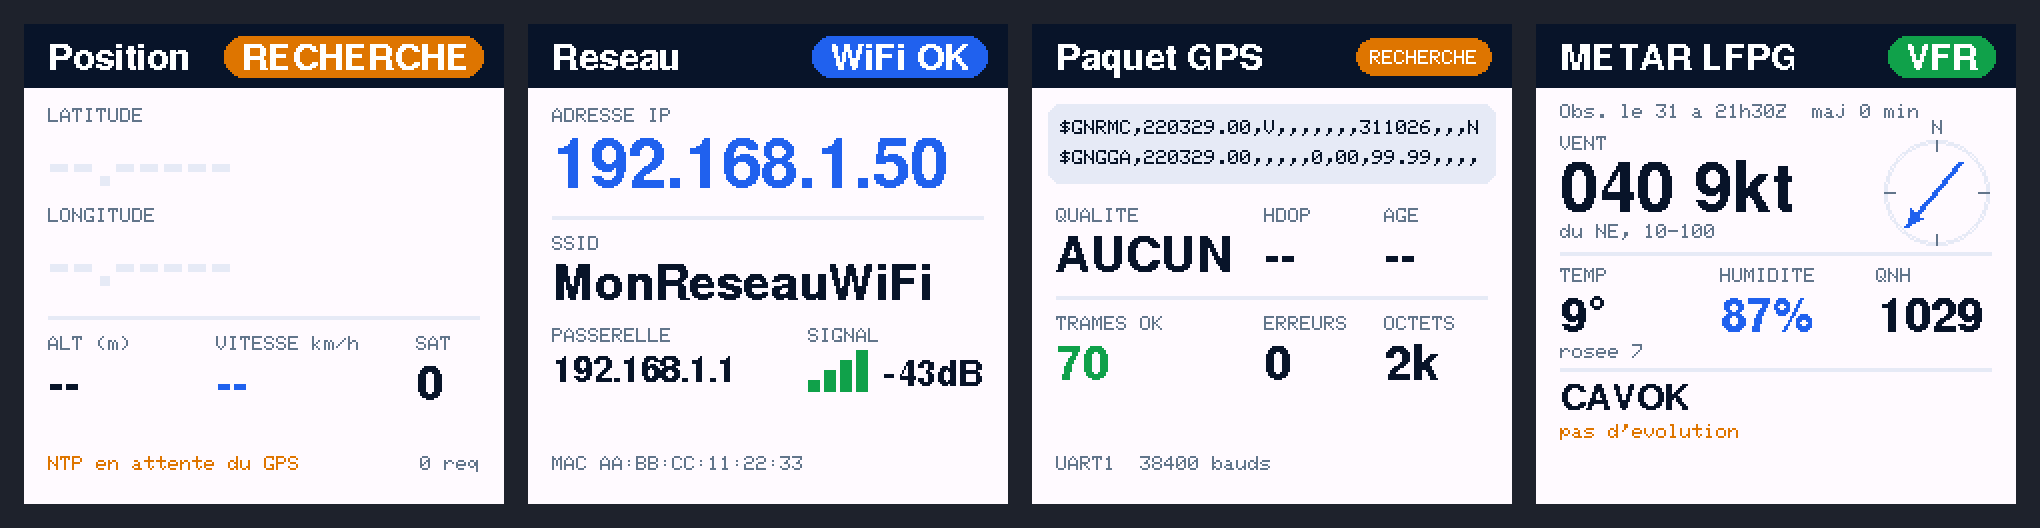
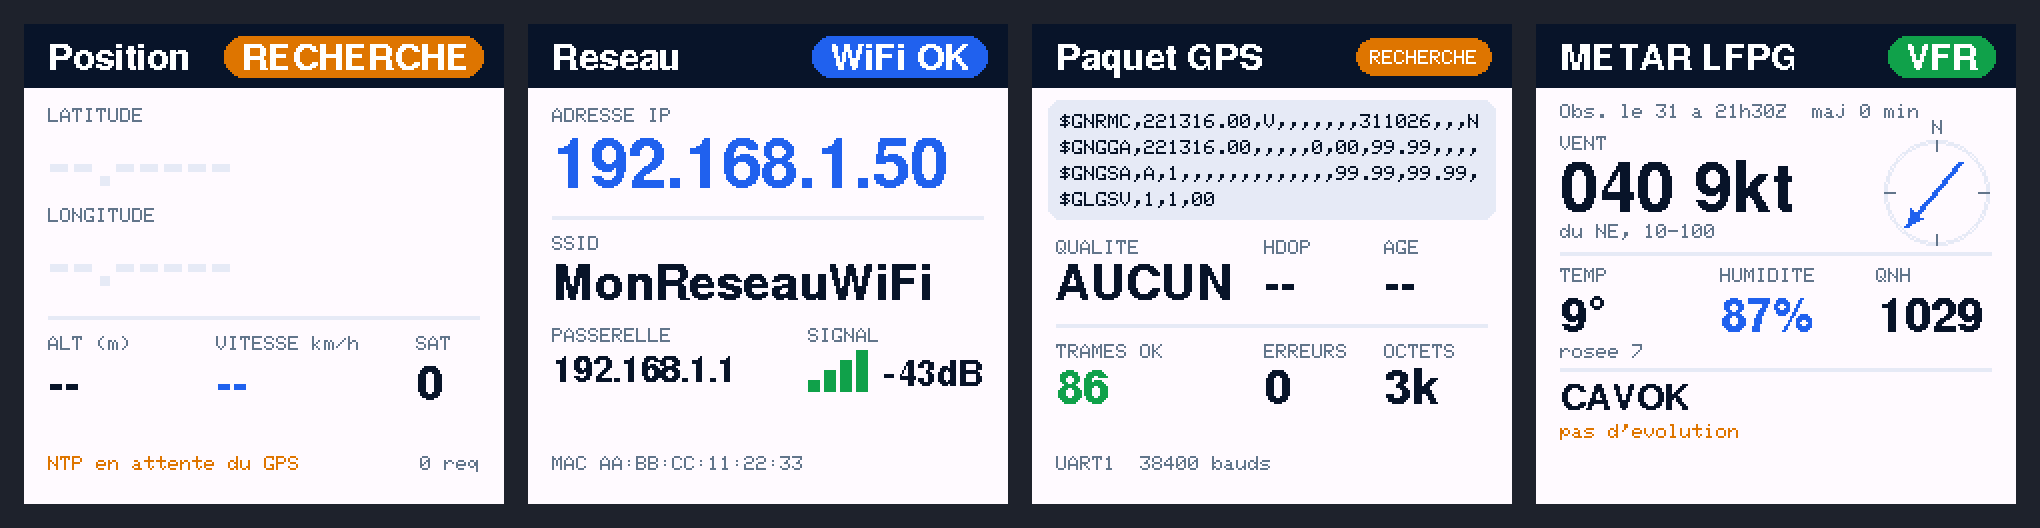
TFT page Paquet GPS : 4 trames (RMC, GGA, GSA, GSV), blocs redescendus

Changed region(s): [[0.4941, 0.1818, 0.7412, 0.7879], [0.6794, 0.4545, 0.7103, 0.5152]]

diff --git a/src/main.cpp b/src/main.cpp
@@ -119,6 +119,8 @@ char nmeaLine[100];
 size_t nmeaLen = 0;
 char lastRmc[100] = "";
 char lastGga[100] = "";
+char lastGsa[100] = "";
+char lastGsv[100] = "";
 
 WebServer server(80);
 
@@ -293,6 +295,8 @@ void captureNmea(char c) {
       if (star) *star = '\0';
       if (strncmp(nmeaLine + 3, "RMC", 3) == 0) strlcpy(lastRmc, nmeaLine, sizeof(lastRmc));
       else if (strncmp(nmeaLine + 3, "GGA", 3) == 0) strlcpy(lastGga, nmeaLine, sizeof(lastGga));
+      else if (strncmp(nmeaLine + 3, "GSA", 3) == 0) strlcpy(lastGsa, nmeaLine, sizeof(lastGsa));
+      else if (strncmp(nmeaLine + 3, "GSV", 3) == 0) strlcpy(lastGsv, nmeaLine, sizeof(lastGsv));
     }
     nmeaLen = 0;
     return;
@@ -618,15 +622,22 @@ void drawPageGpsPacket(ShiftCanvas& g, uint32_t now) {
   uint16_t c = gpsError ? D_RED : (locValid ? D_GREEN : D_AMBER);
   drawHeader(g, "Paquet GPS", gpsError ? "AUCUNE DONNEE" : (locValid ? "FIX" : "RECHERCHE"), c);
 
-  g.fillRoundRect(8, 40, 224, 40, 6, D_DIV);
+  // 4 dernières trames (35 caractères max par ligne : la boîte fait 224 px en police 6x8)
+  g.fillRoundRect(8, 38, 224, 60, 6, D_DIV);
   g.setFont(nullptr);
   g.setTextColor(D_TEXT);
-  g.setCursor(14, 48);
-  // Les trames brutes contiennent la position : remplacées par un exemple en capture anonymisée
+  // RMC et GGA contiennent la position : remplacées par un exemple en capture anonymisée
   bool anonRaw = screenAnon && locValid;
-  g.print(String(anonRaw ? "$GNRMC,123519.00,A,4851.502,N,00217" : (lastRmc[0] ? lastRmc : "$--RMC (rien)")).substring(0, 35));
-  g.setCursor(14, 63);
-  g.print(String(anonRaw ? "$GNGGA,123519.00,4851.502,N,00217.6" : (lastGga[0] ? lastGga : "$--GGA (rien)")).substring(0, 35));
+  const char* lines[4] = {
+    anonRaw ? "$GNRMC,123519.00,A,4851.502,N,00217" : (lastRmc[0] ? lastRmc : "$--RMC (rien)"),
+    anonRaw ? "$GNGGA,123519.00,4851.502,N,00217.6" : (lastGga[0] ? lastGga : "$--GGA (rien)"),
+    lastGsa[0] ? lastGsa : "$--GSA (rien)",
+    lastGsv[0] ? lastGsv : "$--GSV (rien)",
+  };
+  for (int i = 0; i < 4; i++) {
+    g.setCursor(14, 45 + i * 13);
+    g.print(String(lines[i]).substring(0, 35));
+  }
 
   String qual = "--";
   if (!gpsError && gpsQuality.isValid()) {
@@ -635,21 +646,21 @@ void drawPageGpsPacket(ShiftCanvas& g, uint32_t now) {
   }
   String hdop = !gpsError && gps.hdop.isValid() && locValid ? String(gps.hdop.hdop(), 1) : String("--");
   String age = !gpsError && gps.location.isValid() ? String(gps.location.age() / 1000.0, 1) + "s" : String("--");
-  drawLabel(g, 12, 92, "QUALITE");
-  drawLabel(g, 116, 92, "HDOP");
-  drawLabel(g, 176, 92, "AGE");
-  drawSmooth(g, &FreeSansBold12pt7b, 12, 106, D_TEXT, qual);
-  drawSmooth(g, &FreeSansBold12pt7b, 116, 106, D_TEXT, hdop);
-  drawSmooth(g, &FreeSansBold12pt7b, 176, 106, D_TEXT, age);
-  drawDivider(g, 136);
+  drawLabel(g, 12, 108, "QUALITE");
+  drawLabel(g, 116, 108, "HDOP");
+  drawLabel(g, 176, 108, "AGE");
+  drawSmooth(g, &FreeSansBold12pt7b, 12, 120, D_TEXT, qual);
+  drawSmooth(g, &FreeSansBold12pt7b, 116, 120, D_TEXT, hdop);
+  drawSmooth(g, &FreeSansBold12pt7b, 176, 120, D_TEXT, age);
+  drawDivider(g, 150);
 
-  drawLabel(g, 12, 146, "TRAMES OK");
-  drawLabel(g, 116, 146, "ERREURS");
-  drawLabel(g, 176, 146, "OCTETS");
-  drawSmooth(g, &FreeSansBold12pt7b, 12, 160, D_GREEN, String(gps.passedChecksum()));
-  drawSmooth(g, &FreeSansBold12pt7b, 116, 160, gps.failedChecksum() ? D_RED : D_TEXT, String(gps.failedChecksum()));
+  drawLabel(g, 12, 160, "TRAMES OK");
+  drawLabel(g, 116, 160, "ERREURS");
+  drawLabel(g, 176, 160, "OCTETS");
+  drawSmooth(g, &FreeSansBold12pt7b, 12, 172, D_GREEN, String(gps.passedChecksum()));
+  drawSmooth(g, &FreeSansBold12pt7b, 116, 172, gps.failedChecksum() ? D_RED : D_TEXT, String(gps.failedChecksum()));
   uint32_t chars = gps.charsProcessed();
-  drawSmooth(g, &FreeSansBold12pt7b, 176, 160, D_TEXT,
+  drawSmooth(g, &FreeSansBold12pt7b, 176, 172, D_TEXT,
              chars >= 1000000 ? String(chars / 1000000.0, 1) + "M" : (chars >= 1000 ? String(chars / 1000) + "k" : String(chars)));
 
   drawLabel(g, 12, 216, String(GPS_USE_UART1 ? "UART1" : "UART2") + "  " + String(GPS_BAUD) + " bauds");
